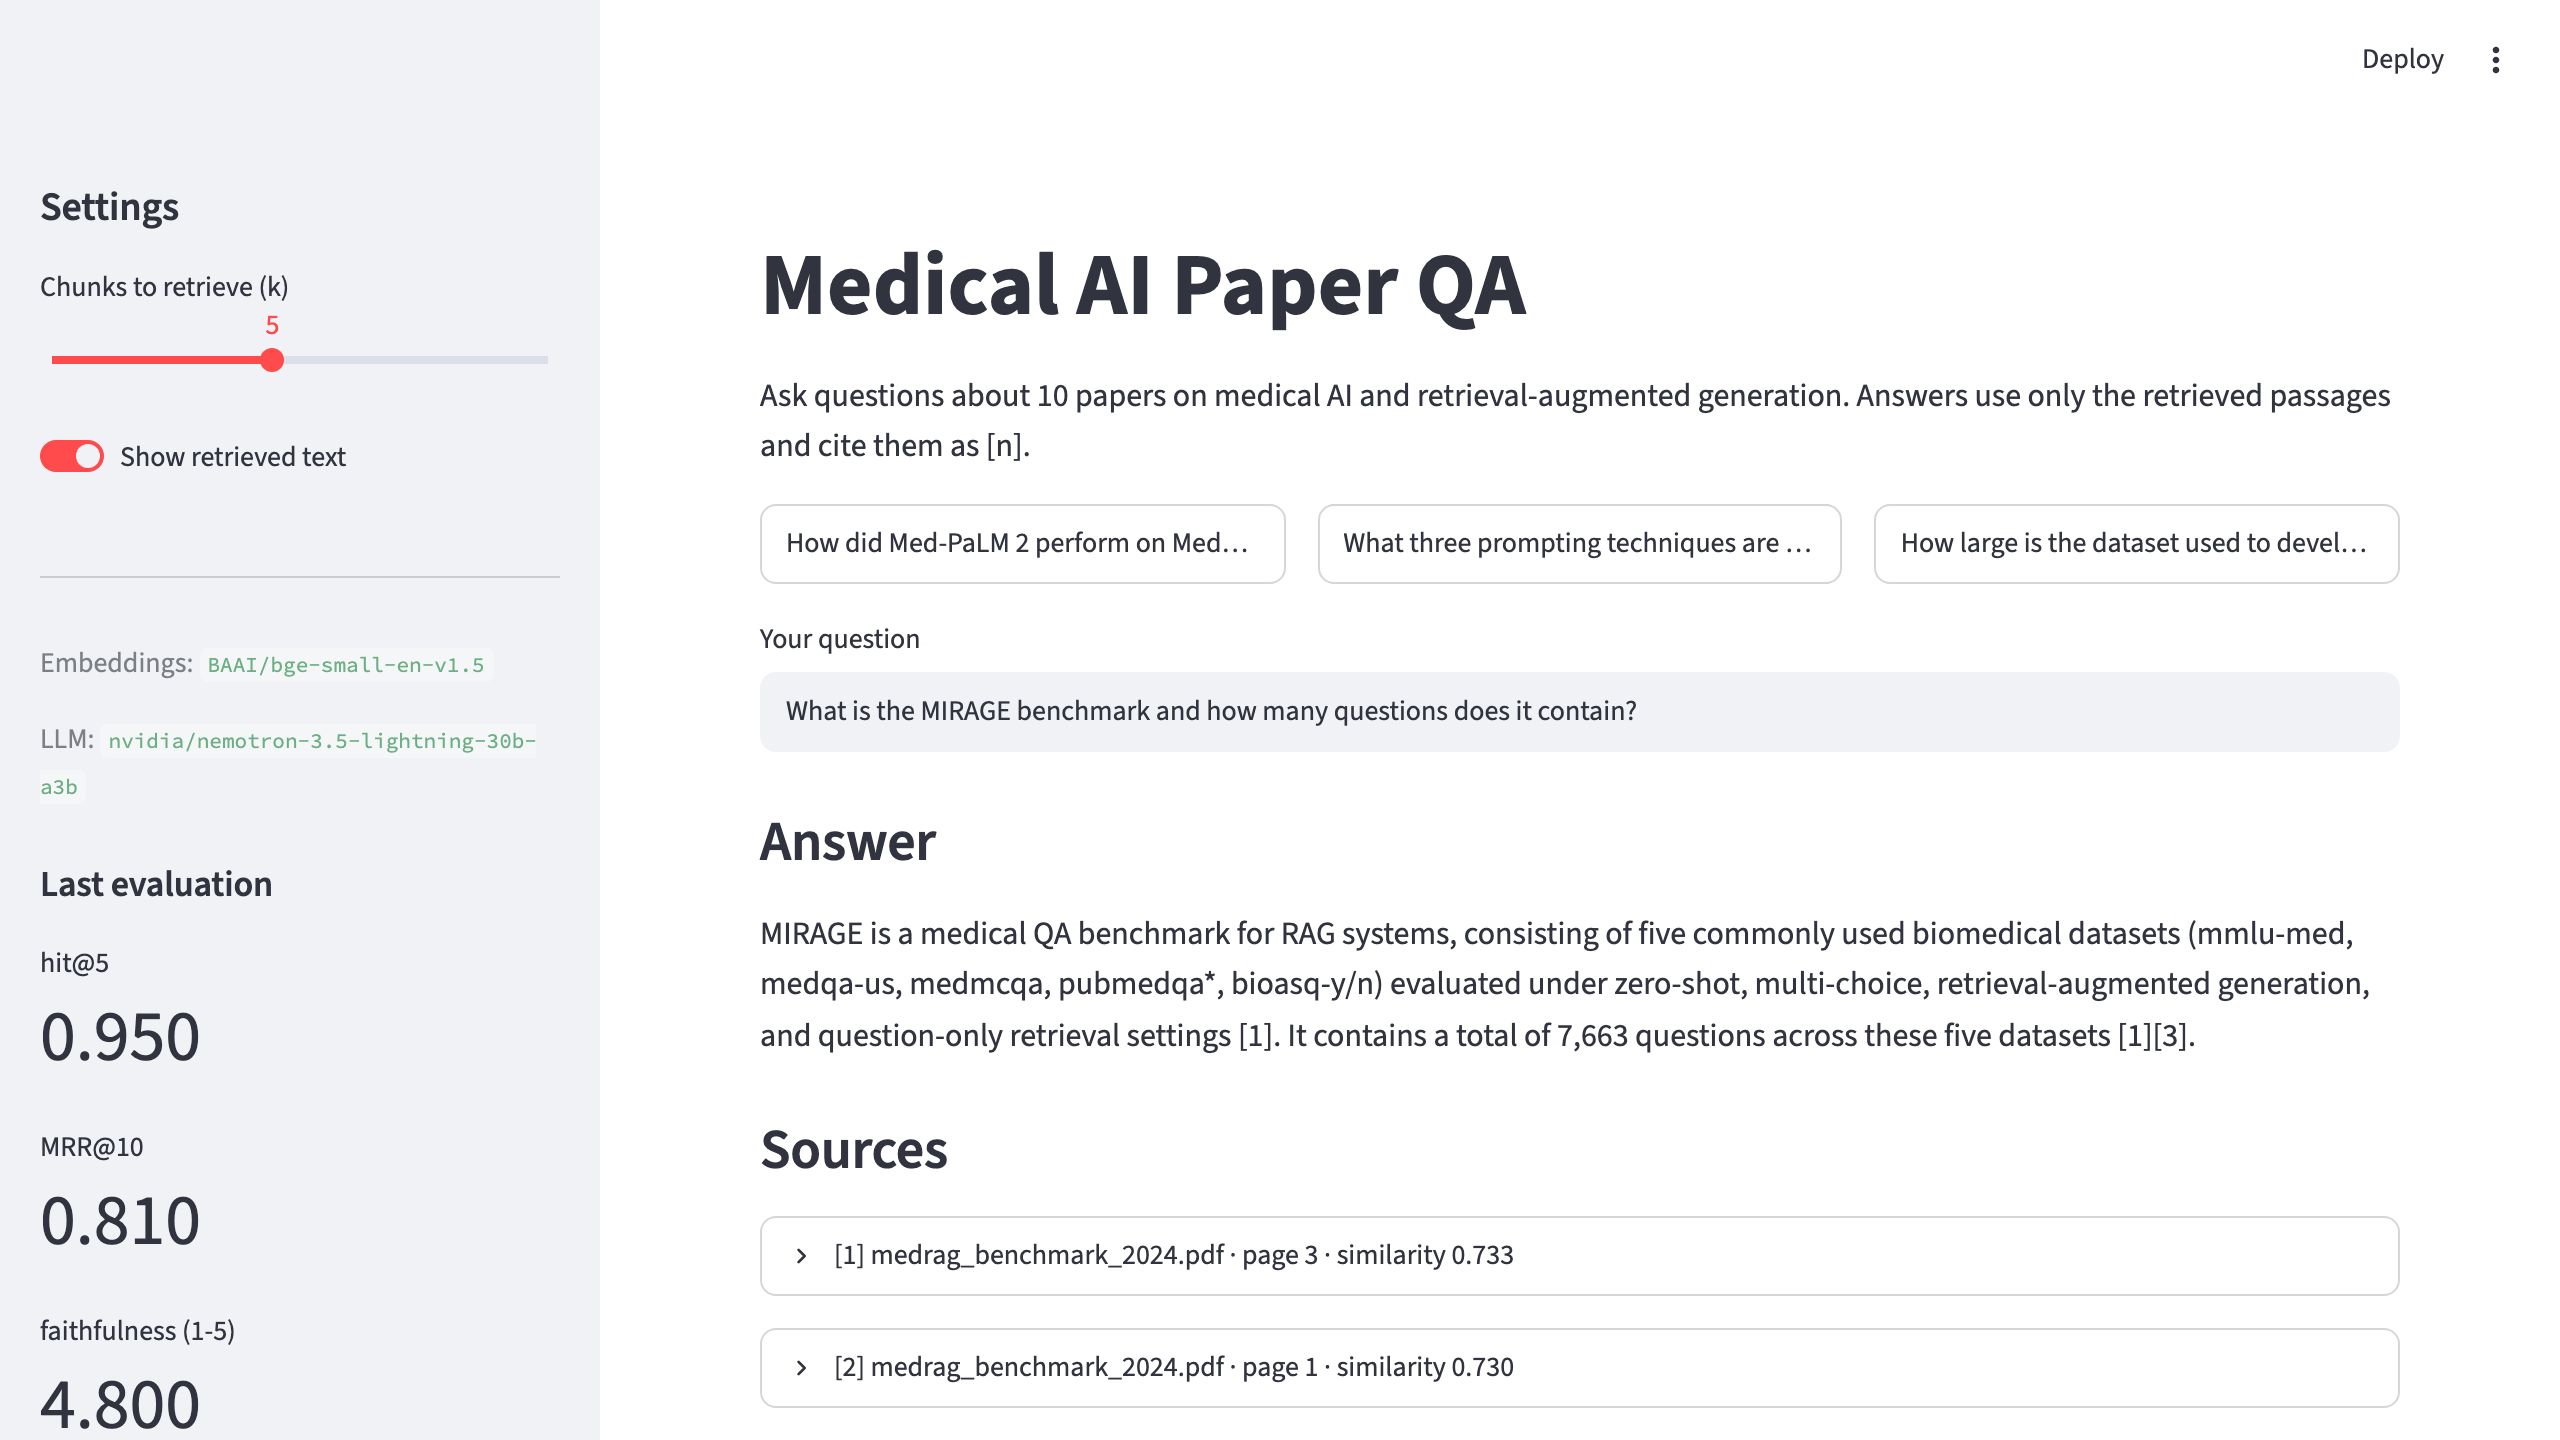
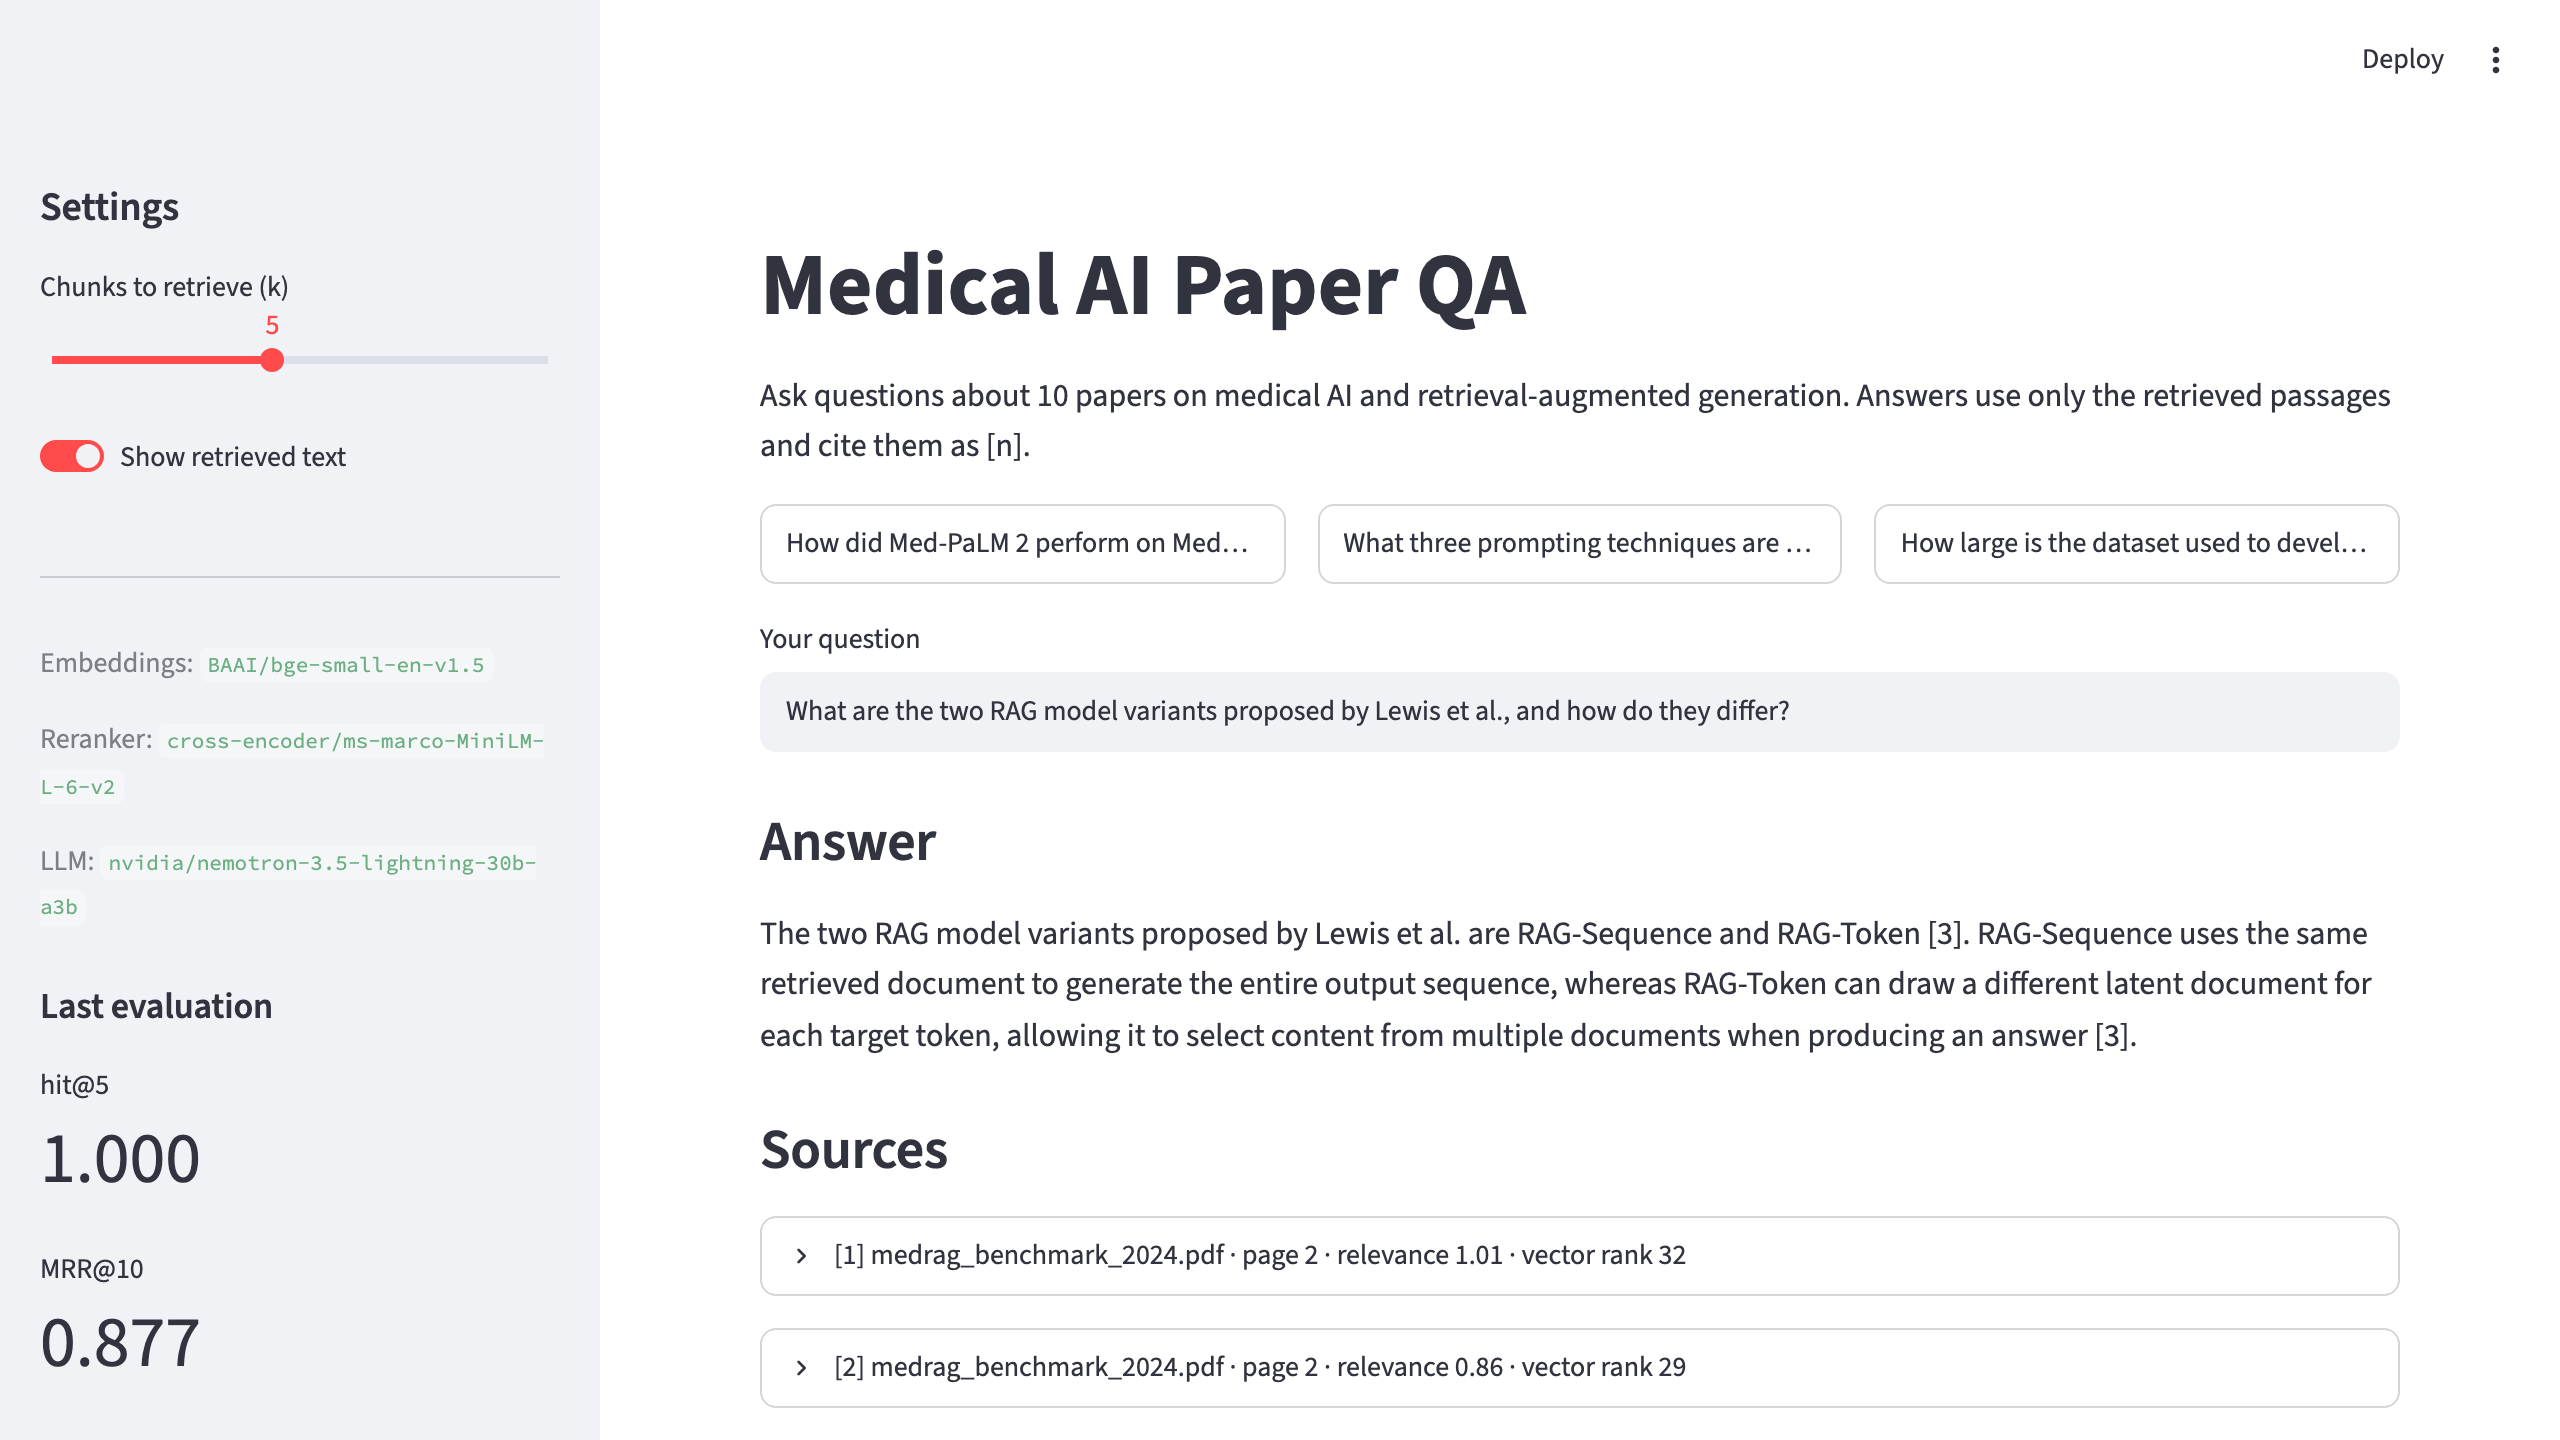
Medical AI Paper QA: reranker results and new cover

diff --git a/lib/projects.ts b/lib/projects.ts
@@ -176,16 +176,16 @@ export const PROJECTS: Project[] = [
       de: "Medical AI Paper QA — Evaluierte RAG-Pipeline",
     },
     summaries: {
-      en: "Retrieval-augmented question answering over medical-AI research papers: every answer cites the exact passage and page, the system declines instead of guessing, and quality is measured with a retrieval and LLM-as-judge evaluation suite.",
-      tr: "Tıbbi yapay zeka makaleleri üzerinde RAG tabanlı soru-cevap: her cevap kaynak pasajı ve sayfayı gösteriyor, sistem tahmin yürütmek yerine cevap vermeyi reddediyor ve kalite, retrieval ile LLM-as-judge değerlendirmesiyle ölçülüyor.",
-      de: "Retrieval-Augmented Question Answering über Forschungsarbeiten zu medizinischer KI: Jede Antwort zitiert die genaue Textstelle und Seite, das System verweigert statt zu raten, und die Qualität wird mit einer Retrieval- und LLM-as-Judge-Evaluation gemessen.",
+      en: "Retrieval-augmented question answering over medical-AI research papers with two-stage retrieval: every answer cites the exact passage and page, and a measured reranker upgrade took the system from 5 refusals to 0 on the evaluation set.",
+      tr: "Tıbbi yapay zeka makaleleri üzerinde iki aşamalı retrieval ile RAG tabanlı soru-cevap: her cevap kaynak pasajı ve sayfayı gösteriyor, ölçülerek eklenen bir reranker değerlendirme setindeki ret sayısını 5'ten 0'a indirdi.",
+      de: "Retrieval-Augmented Question Answering über Forschungsarbeiten zu medizinischer KI mit zweistufigem Retrieval: Jede Antwort zitiert die genaue Textstelle und Seite, und ein gemessenes Reranker-Upgrade senkte die Verweigerungen im Evaluationsset von 5 auf 0.",
     },
     descriptions: {
-      en: "An end-to-end RAG system built in four stages, each measured before moving on.\n\nIngestion: PDFs are parsed page by page and split into ~500-token chunks with overlap, counted with the embedding model's own tokenizer, then embedded locally with bge-small and stored in ChromaDB with source and page metadata. Generation: the top retrieved passages go to an LLM (NVIDIA NIM) under strict rules — answer only from the context, cite every claim as [n], and say \"I don't know\" when the context lacks the answer.\n\nEvaluation: a 20-question test set built from the papers measures retrieval (hit@5 0.95, MRR 0.81) and answer quality with an LLM judge (faithfulness 4.8 / 5, correctness 4.0 / 5). The evaluation drove real design changes: switching embedding models after finding the first one silently truncated half of every chunk, keeping the model's reasoning on for generation after it dropped citations without it, and fixing a judge that rated refusals as correct. Failure analysis points to retrieval as the bottleneck, with a reranker as the next measured experiment.\n\nA Streamlit UI shows each answer with expandable, cited sources and the latest evaluation scores.",
-      tr: "Dört aşamada kurulmuş, her aşaması bir sonrakine geçmeden ölçülmüş uçtan uca bir RAG sistemi.\n\nVeri hazırlama: PDF'ler sayfa sayfa okunuyor ve embedding modelinin kendi tokenizer'ıyla sayılan, örtüşmeli ~500 tokenlık parçalara bölünüyor. Ardından bge-small ile yerelde vektöre çevrilip kaynak ve sayfa bilgisiyle ChromaDB'ye kaydediliyor. Cevap üretimi: en ilgili pasajlar katı kurallarla bir LLM'e (NVIDIA NIM) veriliyor. Kurallar şunlar: sadece bağlamdan cevap ver, her iddiayı [n] ile kaynakla ve bağlamda cevap yoksa \"bilmiyorum\" de.\n\nDeğerlendirme: makalelerden hazırlanan 20 soruluk bir test seti, retrieval'ı (hit@5 0,95, MRR 0,81) ve cevap kalitesini bir LLM hakemle (sadakat 4,8 / 5, doğruluk 4,0 / 5) ölçüyor. Değerlendirme gerçek tasarım değişikliklerine yol açtı. İlk embedding modelinin her parçanın yarısını sessizce kestiği görülünce model değiştirildi. Akıl yürütme kapalıyken model atıfları bıraktığı için cevap üretiminde açık tutuldu. Ret cevaplarını doğru sayan hakem düzeltildi. Hata analizi darboğazın retrieval olduğunu gösteriyor. Bir sonraki ölçülecek deney reranker.\n\nStreamlit arayüzü her cevabı açılabilir kaynaklarıyla ve son değerlendirme puanlarıyla birlikte gösteriyor.",
-      de: "Ein End-to-End-RAG-System, in vier Stufen gebaut und jede Stufe gemessen, bevor es weiterging.\n\nIngestion: PDFs werden seitenweise eingelesen und in überlappende Chunks von ca. 500 Tokens zerlegt, gezählt mit dem Tokenizer des Embedding-Modells. Anschließend werden sie lokal mit bge-small eingebettet und mit Quellen- und Seiten-Metadaten in ChromaDB gespeichert. Generierung: Die relevantesten Passagen gehen mit strikten Regeln an ein LLM (NVIDIA NIM): nur aus dem Kontext antworten, jede Aussage mit [n] belegen und \"Ich weiß es nicht\" sagen, wenn der Kontext die Antwort nicht enthält.\n\nEvaluation: Ein aus den Papers erstelltes Testset mit 20 Fragen misst das Retrieval (hit@5 0,95, MRR 0,81) und die Antwortqualität mit einem LLM-Judge (Faithfulness 4,8 / 5, Correctness 4,0 / 5). Die Evaluation führte zu echten Designänderungen: Wechsel des Embedding-Modells, nachdem sich zeigte, dass das erste die Hälfte jedes Chunks stillschweigend abschnitt. Das Reasoning des Modells bleibt bei der Generierung aktiv, weil ohne es die Zitate wegfielen. Außerdem wurde ein Judge korrigiert, der Verweigerungen als korrekt bewertete. Die Fehleranalyse zeigt das Retrieval als Engpass, ein Reranker ist das nächste gemessene Experiment.\n\nEine Streamlit-Oberfläche zeigt jede Antwort mit aufklappbaren, zitierten Quellen und den aktuellen Evaluationswerten.",
+      en: "An end-to-end RAG system built in stages, each measured before moving on.\n\nPipeline: PDFs are parsed page by page and split into ~500-token chunks, embedded locally with bge-small and stored in ChromaDB with source and page metadata. A question first retrieves the top 50 chunks by vector similarity; a cross-encoder reranker then reads the question together with each candidate and keeps the 5 that actually answer it. An LLM (NVIDIA NIM) answers only from those passages, cites every claim as [n], and says \"I don't know\" when the evidence is missing.\n\nEvaluation: a 20-question test set built from the papers measures retrieval (hit@k, MRR, right page in top 5) and answer quality with an LLM judge. Vector search alone found the right paper but the right page only 45% of the time, so the model correctly refused 5 questions. Adding the reranker — the only change between runs — raised that to 90%, removed every refusal and lifted judged correctness from 3.95 to 5.0 / 5. A fast retrieval-only mode compared two rerankers; the smaller one matched the larger at ~6x lower latency and became the default.\n\nThe evaluation also exposed bugs that were then fixed: an embedding model that silently truncated half of every chunk, chunk text that the tokenizer had lowercased and mangled, and an LLM judge that rated refusals as correct. A Streamlit UI shows each answer with its cited sources and each source's rank before and after reranking.",
+      tr: "Aşama aşama kurulmuş, her aşaması bir sonrakine geçmeden ölçülmüş uçtan uca bir RAG sistemi.\n\nAkış: PDF'ler sayfa sayfa okunup ~500 tokenlık parçalara bölünüyor, bge-small ile yerelde vektöre çevriliyor ve kaynak ve sayfa bilgisiyle ChromaDB'ye kaydediliyor. Bir soru önce vektör benzerliğiyle en iyi 50 parçayı getiriyor. Ardından bir cross-encoder reranker soruyu her adayla birlikte okuyup soruyu gerçekten cevaplayan 5 parçayı seçiyor. Bir LLM (NVIDIA NIM) sadece bu pasajlardan cevap veriyor, her iddiayı [n] ile kaynaklıyor ve kanıt yoksa \"bilmiyorum\" diyor.\n\nDeğerlendirme: makalelerden hazırlanan 20 soruluk bir test seti retrieval'ı (hit@k, MRR, doğru sayfanın ilk 5'te olması) ve cevap kalitesini bir LLM hakemle ölçüyor. Tek başına vektör araması doğru makaleyi buluyordu ama doğru sayfayı sadece %45 oranında getiriyordu, bu yüzden model 5 soruda haklı olarak cevap vermedi. İki çalıştırma arasındaki tek değişiklik olan reranker bu oranı %90'a çıkardı, tüm retleri ortadan kaldırdı ve hakemin doğruluk puanını 3,95'ten 5,0 / 5'e yükseltti. Hızlı bir retrieval modu iki reranker'ı karşılaştırdı. Küçük model, büyüğüyle aynı isabeti yaklaşık 6 kat daha hızlı verdiği için varsayılan oldu.\n\nDeğerlendirme ayrıca sonradan düzeltilen hataları ortaya çıkardı: her parçanın yarısını sessizce kesen bir embedding modeli, tokenizer'ın küçük harfe çevirip bozduğu parça metinleri ve ret cevaplarını doğru sayan bir LLM hakem. Streamlit arayüzü her cevabı kaynaklarıyla ve her kaynağın reranker öncesi ve sonrası sırasıyla gösteriyor.",
+      de: "Ein End-to-End-RAG-System, stufenweise gebaut und jede Stufe gemessen, bevor es weiterging.\n\nPipeline: PDFs werden seitenweise eingelesen, in Chunks von ca. 500 Tokens zerlegt, lokal mit bge-small eingebettet und mit Quellen- und Seiten-Metadaten in ChromaDB gespeichert. Eine Frage ruft zuerst die 50 ähnlichsten Chunks per Vektorsuche ab. Ein Cross-Encoder-Reranker liest dann die Frage zusammen mit jedem Kandidaten und behält die 5, die sie tatsächlich beantworten. Ein LLM (NVIDIA NIM) antwortet nur aus diesen Passagen, belegt jede Aussage mit [n] und sagt \"Ich weiß es nicht\", wenn die Belege fehlen.\n\nEvaluation: Ein aus den Papers erstelltes Testset mit 20 Fragen misst das Retrieval (hit@k, MRR, richtige Seite in den Top 5) und die Antwortqualität mit einem LLM-Judge. Die Vektorsuche allein fand das richtige Paper, die richtige Seite aber nur in 45 % der Fälle, weshalb das Modell 5 Fragen zu Recht verweigerte. Der Reranker, die einzige Änderung zwischen den Läufen, hob das auf 90 %, beseitigte alle Verweigerungen und steigerte die bewertete Korrektheit von 3,95 auf 5,0 / 5. Ein schneller Retrieval-Modus verglich zwei Reranker; das kleinere Modell erreichte dieselbe Trefferquote bei etwa 6-mal geringerer Latenz und wurde Standard.\n\nDie Evaluation deckte zudem Fehler auf, die anschließend behoben wurden: ein Embedding-Modell, das die Hälfte jedes Chunks stillschweigend abschnitt, Chunk-Text, den der Tokenizer kleingeschrieben und verstümmelt hatte, und ein LLM-Judge, der Verweigerungen als korrekt bewertete. Eine Streamlit-Oberfläche zeigt jede Antwort mit ihren zitierten Quellen und dem Rang jeder Quelle vor und nach dem Reranking.",
     },
-    tech: ["Python", "ChromaDB", "sentence-transformers", "NVIDIA NIM", "Streamlit", "pypdf"],
+    tech: ["Python", "ChromaDB", "sentence-transformers", "Cross-encoder reranking", "NVIDIA NIM", "Streamlit"],
     tags: ["RAG", "LLM Evaluation", "Healthcare AI"],
     role: {
       en: "Solo · design, implementation and evaluation",
